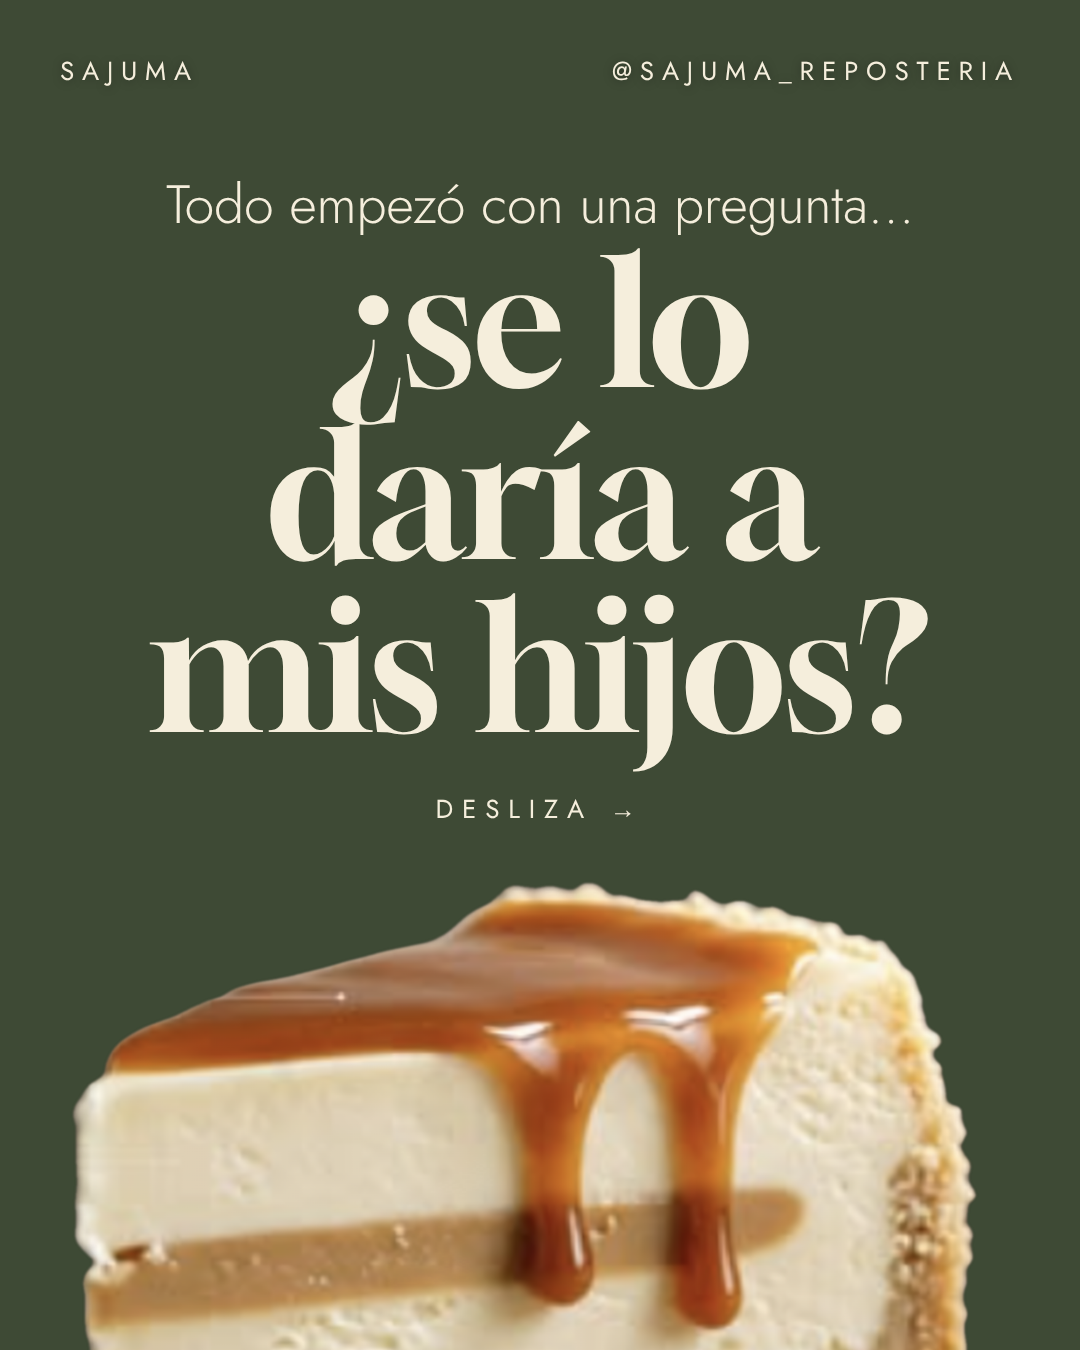
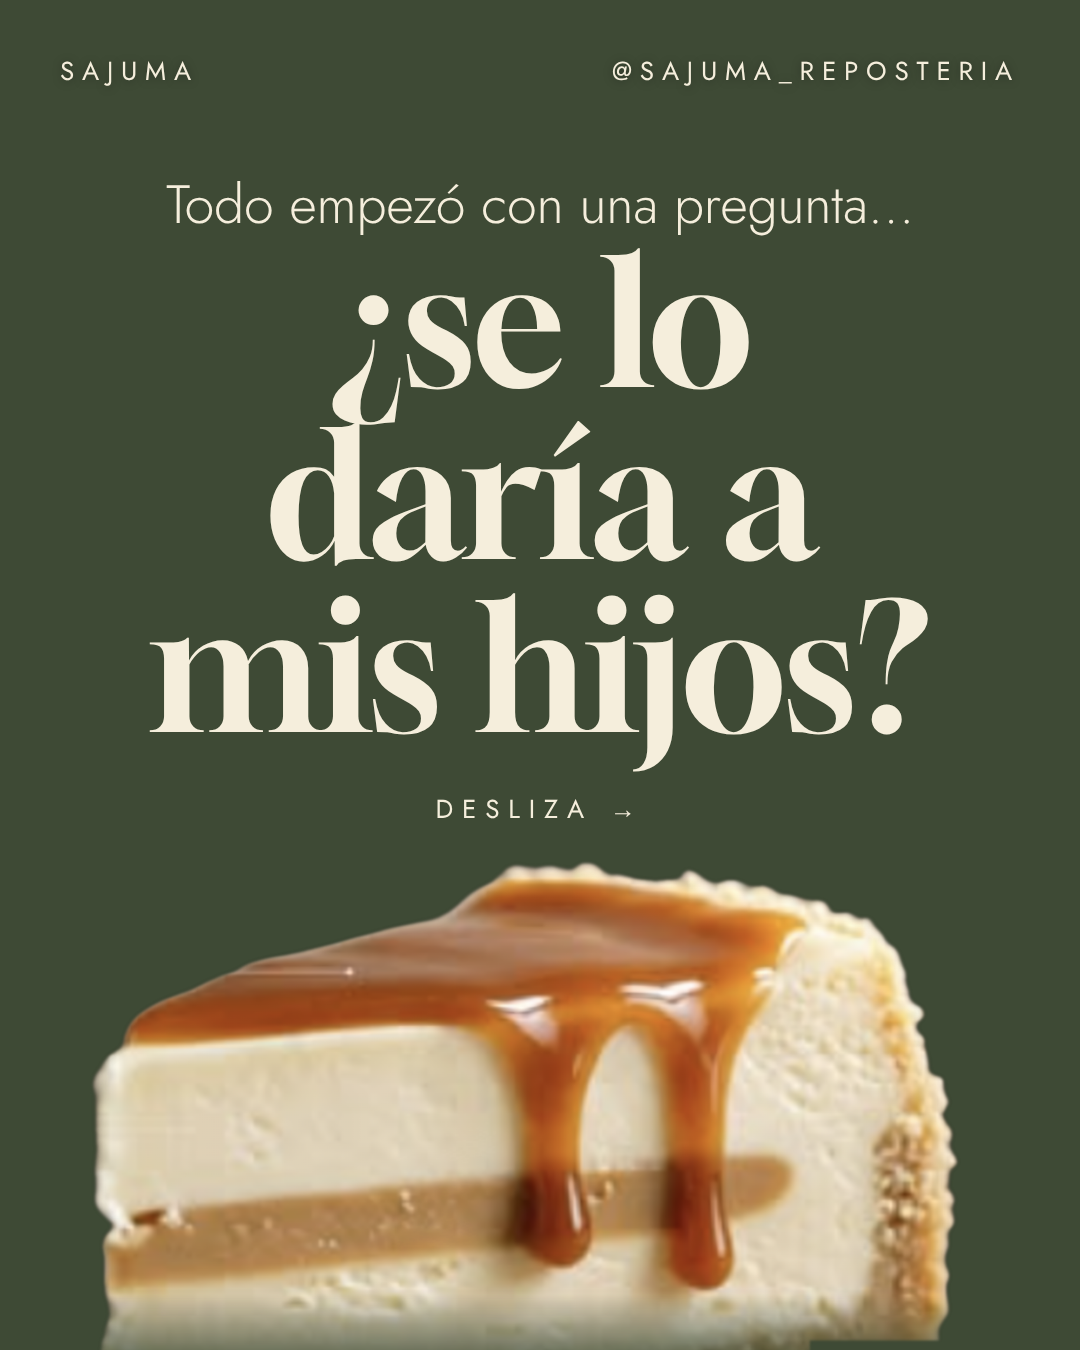
SAJUMA carrusel 1: portada con el cheesecake de la imagen 1 sobre verde, base difuminada
Claude-Session: https://claude.ai/code/session_018d4LXHkXweDJXxfN5x99dL

Changed region(s): [[0.0611, 0.6222, 0.9167, 1.0]]

diff --git a/carruseles/sajuma-1-todo-empezo-en-mi-cocina/carrusel.html b/carruseles/sajuma-1-todo-empezo-en-mi-cocina/carrusel.html
@@ -21,7 +21,7 @@ body{background:#222;display:flex;flex-direction:column;align-items:center;gap:4
 </style></head><body><section class="slide" style="background:#3E4A35;color:#F5EEDC"><div class="brand" style="color:#F5EEDC"><span>SAJUMA</span><span>@SAJUMA_REPOSTERIA</span></div>
 <div class="intro" style="top:165px">Todo empezó con una pregunta…</div>
 <div class="big" style="top:235px;font-size:176px">¿se lo<br>daría a<br>mis hijos?</div>
-<img class="hero" src="img/cheesecake-caramelo.png" style="left:70px;top:880px;width:940px">
+<img class="hero" src="img/cheesecake-caramelo-fade.png" style="left:90px;top:860px;width:900px">
 <div class="cap" style="top:790px;font-size:26px">DESLIZA →</div></section><section class="slide" style="background:#2a1d14"><div class="photo" style="height:1350px;background-image:url(img/full-02-familia.jpg)"></div><div class="scrim"></div><div class="topscrim"></div><div class="brand" style="color:#F5EEDC"><span>SAJUMA</span><span>@SAJUMA_REPOSTERIA</span></div><div class="over"><div class="g" style="font-size:150px">Soy Miryam.</div><div class="t1" style="font-size:60px;margin-top:14px">Mamá antes que pastelera.</div></div></section><section class="slide" style="background:#2a1d14"><div class="photo" style="height:1350px;background-image:url(img/full-03-mesa-familiar.jpg)"></div><div class="scrim"></div><div class="topscrim"></div><div class="brand" style="color:#F5EEDC"><span>SAJUMA</span><span>@SAJUMA_REPOSTERIA</span></div><div class="over"><div class="t1" style="font-size:62px">Quería que en casa celebráramos con postre… sin descuidar lo que más amo: su salud.</div></div></section><section class="slide" style="background:#2a1d14"><div class="photo" style="height:1350px;background-image:url(img/full-04-ingredientes.jpg)"></div><div class="scrim"></div><div class="topscrim"></div><div class="brand" style="color:#F5EEDC"><span>SAJUMA</span><span>@SAJUMA_REPOSTERIA</span></div><div class="over"><div class="t1" style="font-size:58px">Así que empecé a cambiar ingredientes.</div><div class="g" style="font-size:150px;margin-top:10px">uno por uno.</div></div></section><section class="slide" style="background:#3E4A35;color:#F5EEDC"><div class="brand" style="color:#F5EEDC"><span>SAJUMA</span><span>@SAJUMA_REPOSTERIA</span></div>
 <div class="intro" style="top:190px;font-size:50px">Y descubrí algo:</div>
 <div class="big" style="top:262px;font-size:112px;line-height:1">lo rico también<br>puede cuidarte</div>

diff --git a/carruseles/sajuma-1-todo-empezo-en-mi-cocina/generar.py b/carruseles/sajuma-1-todo-empezo-en-mi-cocina/generar.py
@@ -10,7 +10,7 @@ S=[]
 S.append(f'''<section class="slide" style="background:#3E4A35;color:#F5EEDC">{brand()}
 <div class="intro" style="top:165px">Todo empezó con una pregunta…</div>
 <div class="big" style="top:235px;font-size:176px">¿se lo<br>daría a<br>mis hijos?</div>
-<img class="hero" src="img/cheesecake-caramelo.png" style="left:70px;top:880px;width:940px">
+<img class="hero" src="img/cheesecake-caramelo-fade.png" style="left:90px;top:860px;width:900px">
 <div class="cap" style="top:790px;font-size:26px">DESLIZA →</div></section>''')
 # 2
 S.append(full('full-02-familia.jpg',f'<div class="g" style="font-size:150px">Soy {NOMBRE}.</div><div class="t1" style="font-size:60px;margin-top:14px">Mamá antes que pastelera.</div>'))
